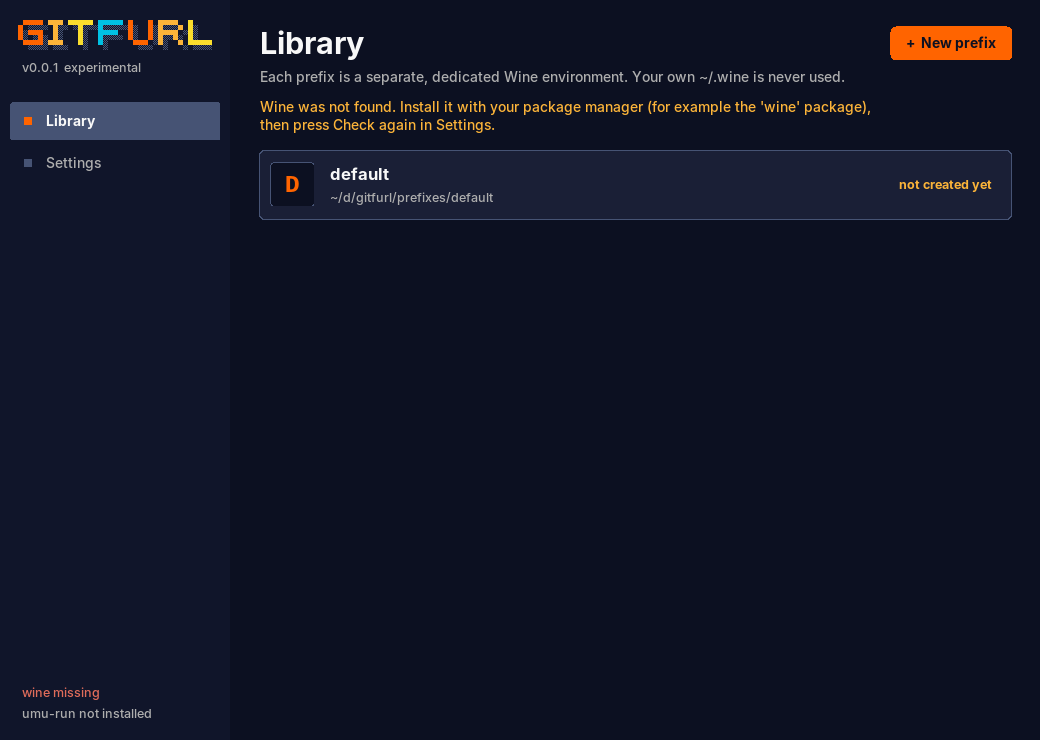
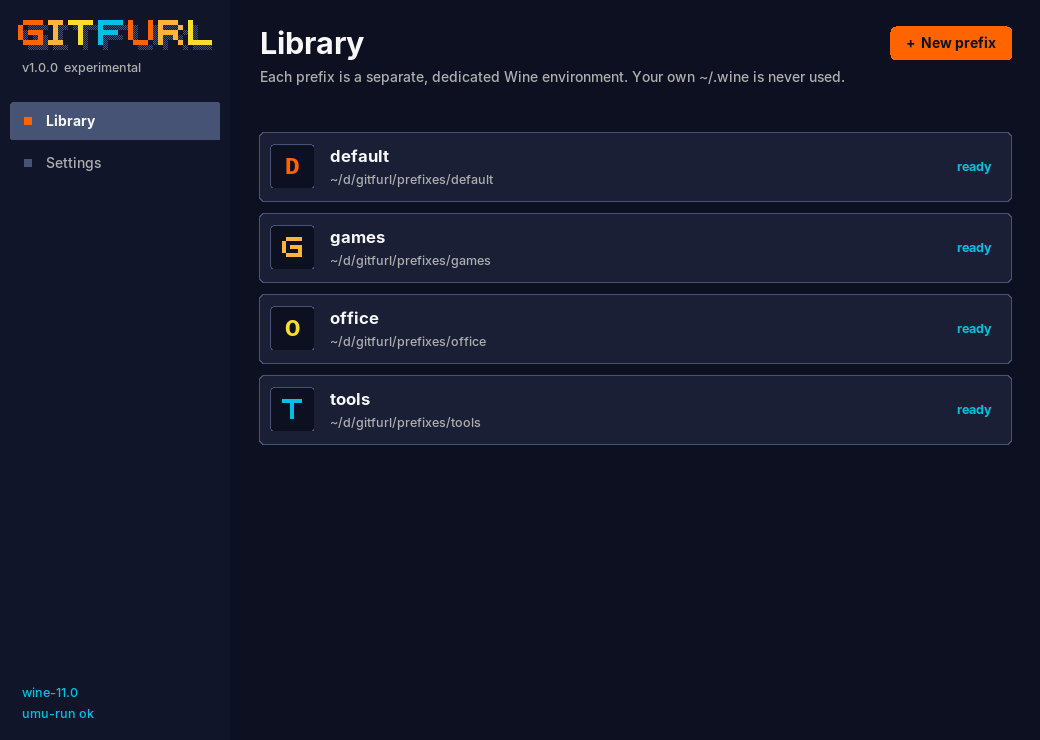
Set the first release version to 1.0.0 and retake the README screenshot
The screenshot now shows Wine and umu-run found and every prefix ready.
The sidebar shows the real reason when umu-run cannot be probed.

diff --git a/src/gitfurl/gui.py b/src/gitfurl/gui.py
@@ -491,11 +491,16 @@ def main(start: str = "library", prefix: str | None = None) -> int:
         wine_path["value"] = shutil.which("wine")
         wine_path["umu"] = shutil.which("umu-run")
         wr, br = report["wine"], report["bwrap"]
-        env_wine.configure(text=f"wine {wr.version or 'missing'}",
+        env_wine.configure(text=wr.version or "wine missing",
                            fg=w.CYAN if not wr.problem else w.RED)
         ur = report["umu"]
-        env_umu.configure(text=f"umu-run {'ok' if not ur.problem else 'not installed'}",
-                          fg=w.CYAN if not ur.problem else w.MUTED)
+        if not ur.problem:
+            umu_text = "umu-run ok"
+        elif "not found" in ur.problem:
+            umu_text = "umu-run not installed"
+        else:
+            umu_text = f"umu-run: {ur.problem}"
+        env_umu.configure(text=umu_text, fg=w.CYAN if not ur.problem else w.MUTED)
         wine_note.configure(
             text="" if not wr.problem else
             "Wine was not found. Install it with your package manager (for example the "

diff --git a/src/gitfurl/__init__.py b/src/gitfurl/__init__.py
@@ -1,3 +1,3 @@
 """Gitfurl: experimental helper for running user-supplied Windows installers on Linux."""
 
-__version__ = "0.0.1"
+__version__ = "1.0.0"

diff --git a/README.md b/README.md
@@ -16,7 +16,7 @@
 
 gitfurl is a graphical app (with an optional command line) for running a Windows installer on Linux through Wine. **You supply the installer.** Gitfurl does not find, download or include any.
 
-> **Status: experimental, version 0.0.1, as of 2026-11-16.** The app, the command line and the tests exist. Installers have been *started* in a sandbox; a complete install has not been tested. Not audited. Details under [Status](#status).
+> **Status: experimental, version 1.0.0 (the first release, not yet published), as of 2026-11-16.** The app, the command line and the tests exist. Installers have been *started* in a sandbox; a complete install has not been tested. Not audited. Details under [Status](#status).
 
 ![The Library page: a list of Wine prefixes](docs/screenshot.png)
 
@@ -42,7 +42,7 @@ Running a Windows installer under Wine by hand works, until it does not. These a
 
 ## Getting started
 
-There is no release yet. Run it from source. You need Linux, Python 3.11 or newer, tkinter (`python3-tk` on Debian and Ubuntu) and Wine.
+There is no published release yet; 1.0.0 will be the first. Until then, run it from source. You need Linux, Python 3.11 or newer, tkinter (`python3-tk` on Debian and Ubuntu) and Wine.
 
 1. **Get the code.** `git clone https://github.com/undecuple/gitfurl.git && cd gitfurl`
 2. **Check your setup.** `python -m gitfurl cli doctor` reports Wine, tkinter, bubblewrap and umu-run. With Nix, `nix develop .#wine` gives you Python with tkinter and Wine.

diff --git a/CHANGELOG.md b/CHANGELOG.md
@@ -3,6 +3,8 @@
 All notable changes are documented here. The format follows [Keep a Changelog](https://keepachangelog.com/en/1.1.0/), and the project uses [Semantic Versioning](https://semver.org/).
 
 ## [Unreleased]
+The first release will be 1.0.0 (version set in `pyproject.toml` and `gitfurl.__version__`; not tagged or published).
+
 ### Added (after review)
 - `release.yml`: builds the graphical app as one Linux program on a `v*` tag and attaches it, with SHA256SUMS, to a draft release. Not yet run.
 - `Dockerfile`, `compose.yaml`, `docs/docker.md`: a container with the network off and a read-only installer folder. Builds and starts under Podman.
@@ -11,6 +13,7 @@ All notable changes are documented here. The format follows [Keep a Changelog](h
 - `docs/testing.md`, Python 3.11 and 3.12 in CI, shellcheck, a check for tracked installers and large files, and dependabot for the action pins.
 
 ### Changed (after review)
+- The sidebar shows the real reason when umu-run cannot be probed, and the README screenshot is retaken with nothing missing or failing.
 - `WINE*` variables inherited from your shell are no longer passed to the installer.
 - Cleanup `folder` mode refuses `~/Downloads`, `~/Desktop`, `~/Documents` and similar general folders.
 - `tools/sandbox.sh` exits with a clear message outside NixOS.
